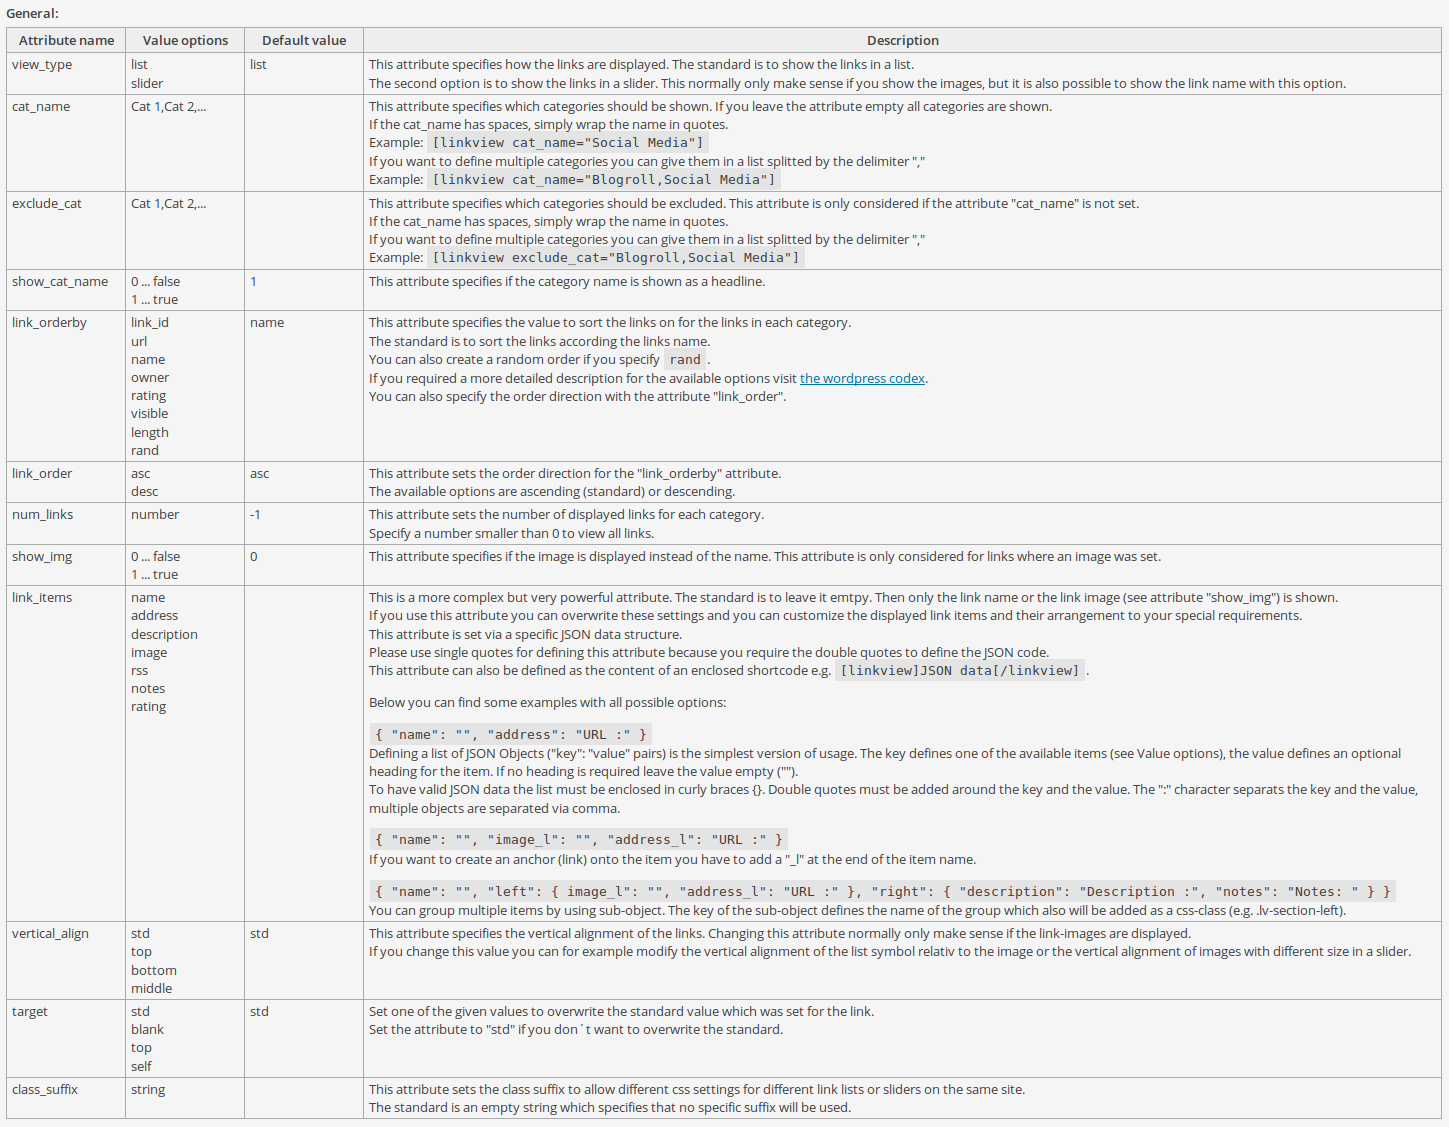
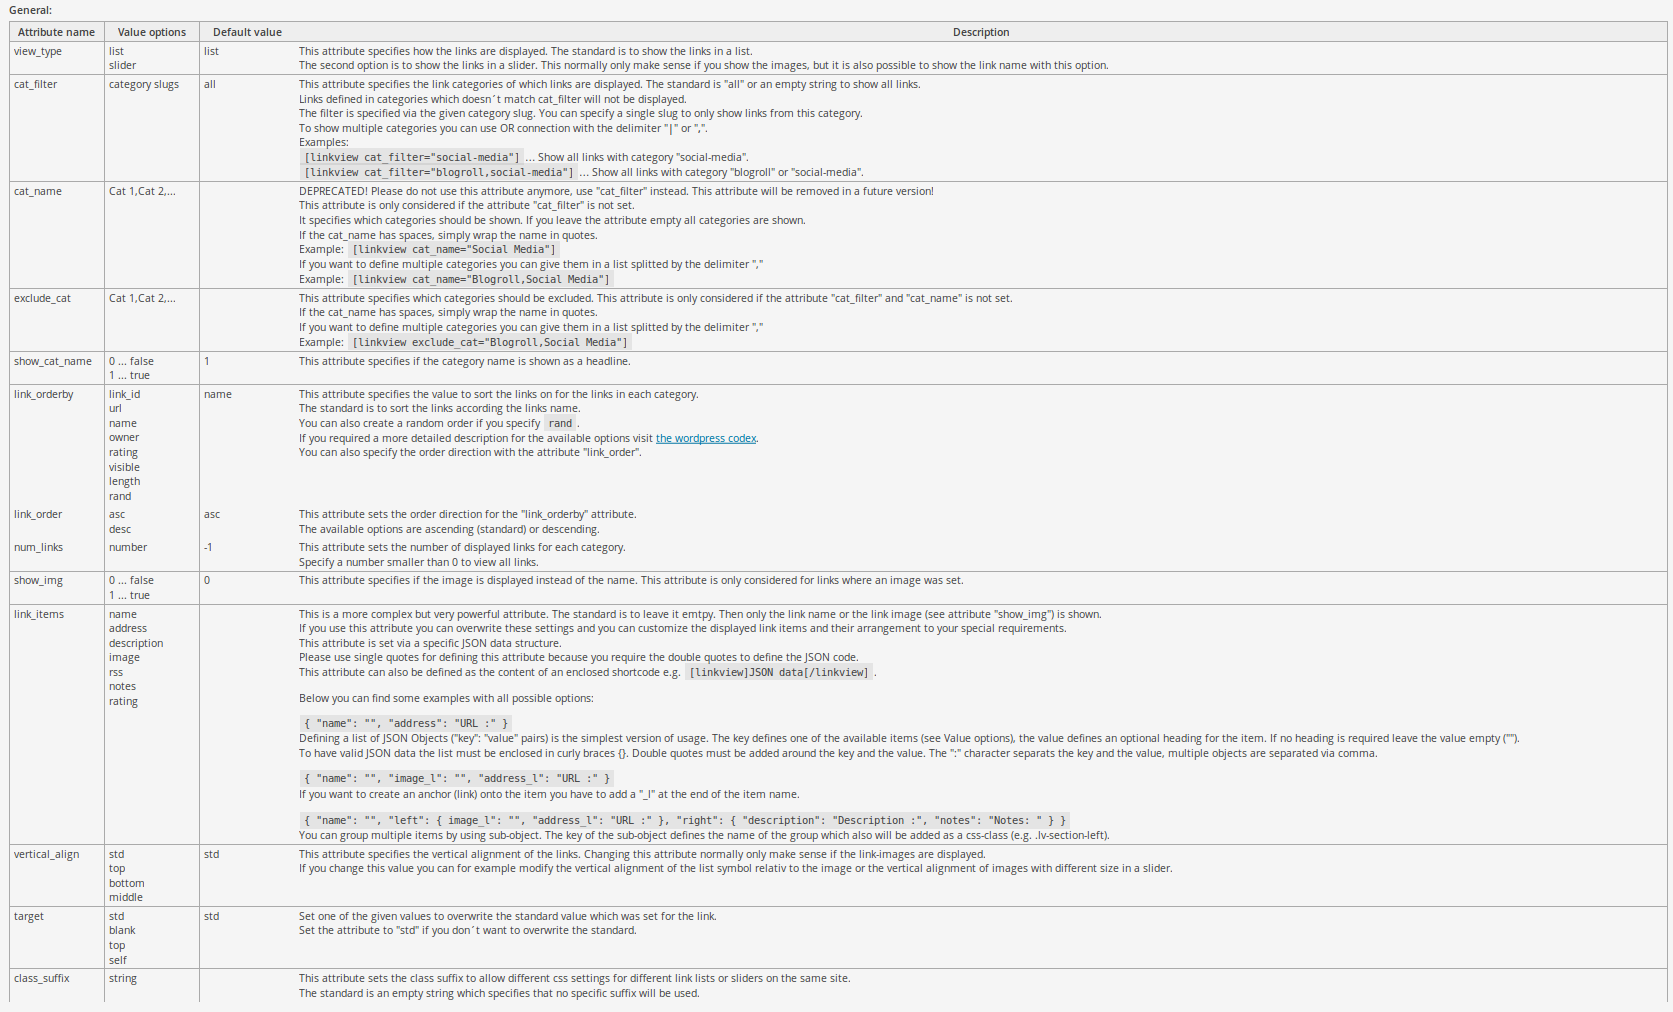
version 0.6.1
git-svn-id: https://plugins.svn.wordpress.org/link-view/trunk@1084443 b8457f37-d9ea-0310-8a92-e5e31aec5664

diff --git a/includes/sc_linkview.php b/includes/sc_linkview.php
@@ -34,10 +34,23 @@ class SC_Linkview {
 			                          'desc'    => 'This attribute specifies how the links are displayed. The standard is to show the links in a list.<br />
 			                                        The second option is to show the links in a slider. This normally only make sense if you show the images, but it is also possible to show the link name with this option.'),
 
+			'cat_filter'     => array('section' => 'general',
+			                          'val'     => 'category slugs',
+			                          'std_val' => 'all',
+			                          'desc'    => 'This attribute specifies the link categories of which links are displayed. The standard is "all" or an empty string to show all links.<br />
+			                                        Links defined in categories which doesn´t match cat_filter will not be displayed.<br />
+			                                        The filter is specified via the given category slug. You can specify a single slug to only show links from this category.<br />
+			                                        To show multiple categories you can use OR connection with the delimiter "<strong>&verbar;</strong>" or "<strong>&comma;</strong>".<br />
+			                                        Examples:<br />
+			                                        <code>[linkview cat_filter="social-media"]</code>&hellip; Show all links with category "social-media".<br />
+			                                        <code>[linkview cat_filter="blogroll&comma;social-media"]</code>&hellip; Show all links with category "blogroll" or "social-media".'),
+
 			'cat_name'       => array('section' => 'general',
 			                          'val'     => 'Cat 1,Cat 2,...',
 			                          'std_val' => '',
-			                          'desc'    => 'This attribute specifies which categories should be shown. If you leave the attribute empty all categories are shown.<br />
+			                          'desc'    => 'DEPRECATED! Please do not use this attribute anymore, use "cat_filter" instead. This attribute will be removed in a future version!<br />
+			                                        This attribute is only considered if the attribute "cat_filter" is not set.<br />
+			                                        It specifies which categories should be shown. If you leave the attribute empty all categories are shown.<br />
 			                                        If the cat_name has spaces, simply wrap the name in quotes.<br />
 			                                        Example: <code>[linkview cat_name="Social Media"]</code><br />
 			                                        If you want to define multiple categories you can give them in a list splitted by the delimiter ","<br />
@@ -46,7 +59,7 @@ class SC_Linkview {
 			'exclude_cat'    => array('section' => 'general',
 			                          'val'     => 'Cat 1,Cat 2,...',
 			                          'std_val' => '',
-			                          'desc'    => 'This attribute specifies which categories should be excluded. This attribute is only considered if the attribute "cat_name" is not set.<br />
+			                          'desc'    => 'This attribute specifies which categories should be excluded. This attribute is only considered if the attribute "cat_filter" and "cat_name" is not set.<br />
 			                                        If the cat_name has spaces, simply wrap the name in quotes.<br />
 			                                        If you want to define multiple categories you can give them in a list splitted by the delimiter ","<br />
 			                                        Example: <code>[linkview exclude_cat="Blogroll,Social Media"]</code>'),
@@ -135,6 +148,14 @@ class SC_Linkview {
 			                                           If you specify a number greater than 1 the categories will be displayed in multiple columns according to the given value.<br />
 			                                           If you have multiple columns it is recommended to define a fixed with for the categories and links. This width must be set manually e.g. via the css entry: <code>.lv-multi-column { width: 32%; }')),
 
+			'link_columns'   => array('section' => 'list',
+			                          'val'     => 'Number',
+			                          'std_val' => '1',
+			                          'desc'    => __('This attribute sets the number of columns for the displayed links per category in list view.<br />
+			                                           The standard value is "1" to display 1 column only (a simple list).<br />
+			                                           If you specify a number greater than 1 the categories will be displayed in multiple columns according to the given value.
+			                                           This feature will not work in Microsoft Internet Explorer < version 10.')),
+
 			'slider_width'   => array('section' => 'slider',
 			                          'val'     => 'Number',
 			                          'std_val' => '0',
@@ -209,7 +230,7 @@ class SC_Linkview {
 		// wrapper div
 		$out .= '
 				<div class="linkview">';
-		// prepare for multiple columns for categories and column automatic feature
+		// prepare for category multi columns
 		$cat_multicolumn = (is_int((int)$a['cat_columns']) && 1 < $a['cat_columns']) ? true : false;
 		$class_cat_multicolumn = $cat_multicolumn ? ' lv-multi-column' : '';
 		$cat_column = 0;
@@ -289,7 +310,25 @@ class SC_Linkview {
 
 	private function categories($a) {
 		$catarray = array();
-		if(empty($a['cat_name'])) {
+		if('all' != $a['cat_filter'] || '' == $a['cat_filter']) {
+			str_replace(',', '|', $a['cat_filter']);
+			$catslugs = array_map('trim', explode('|', $a['cat_filter']));
+			foreach($catslugs as $catslug) {
+				if(get_term_by('slug', $catslug, 'link_category')) {
+					$catarray[] = get_term_by('slug', $catslug, 'link_category');
+				}
+			}
+		}
+		elseif(!empty($a['cat_name'])) {   // cat_name is deprecated! Will be removed in one of the next versions.
+			$catnames = array_map('trim', explode(",", $a['cat_name']));
+			foreach($catnames as $catname) {
+				if(get_term_by('name', $catname, 'link_category'))
+				{
+					$catarray[] = get_term_by('name', $catname, 'link_category');
+				}
+			}
+		}
+		else {
 			$catarray = get_terms('link_category', 'orderby=name');
 			if($a['exclude_cat'] != '') {
 				$excludecat = array_map('trim', explode(",", $a['exclude_cat']));
@@ -301,15 +340,6 @@ class SC_Linkview {
 				}
 				$catarray = $diff;
 				unset($diff);
-			}
-		}
-		else {
-			$catnames = array_map('trim', explode(",", $a['cat_name']));
-			foreach($catnames as $catname) {
-				if(get_term_by('name', $catname, 'link_category') != false)
-				{
-					array_push($catarray, get_term_by('name', $catname, 'link_category'));
-				}
 			}
 		}
 		return $catarray;
@@ -358,8 +388,9 @@ class SC_Linkview {
 	}
 
 	private function html_link_list($links, $a, $list_id, $slider_size) {
+		$num_columns = (is_int((int)$a['link_columns']) && 'slider' !== $a['view_type']) ? $a['link_columns'] : 1;
 		$out = '
-					<div id="'.$list_id.'"';
+					<div id="'.$list_id.'" style="column-count:'.$num_columns.'; -moz-column-count:'.$num_columns.'; -webkit-column-count:'.$num_columns.';"';
 		if('slider' === $a['view_type']) {
 			$out .= ' class="lv-slider"';
 		}

diff --git a/linkview.php b/linkview.php
@@ -3,13 +3,13 @@
 Plugin Name: Link View
 Plugin URI: http://wordpress.org/extend/plugins/link-view/
 Description: Display a link-list or link-slider in a post or page by using a shortcode.
-Version: 0.6.0
+Version: 0.6.1
 Author: Michael Burtscher
 Author URI: http://wordpress.org/extend/plugins/link-view/
 License: GPLv2
 
 A plugin for the blogging MySQL/PHP-based WordPress.
-Copyright 2012-2013 Michael Burtscher
+Copyright 2012-2015 Michael Burtscher
 
 This program is free software; you can redistribute it and/or
 modify it under the terms of the GNUs General Public License
